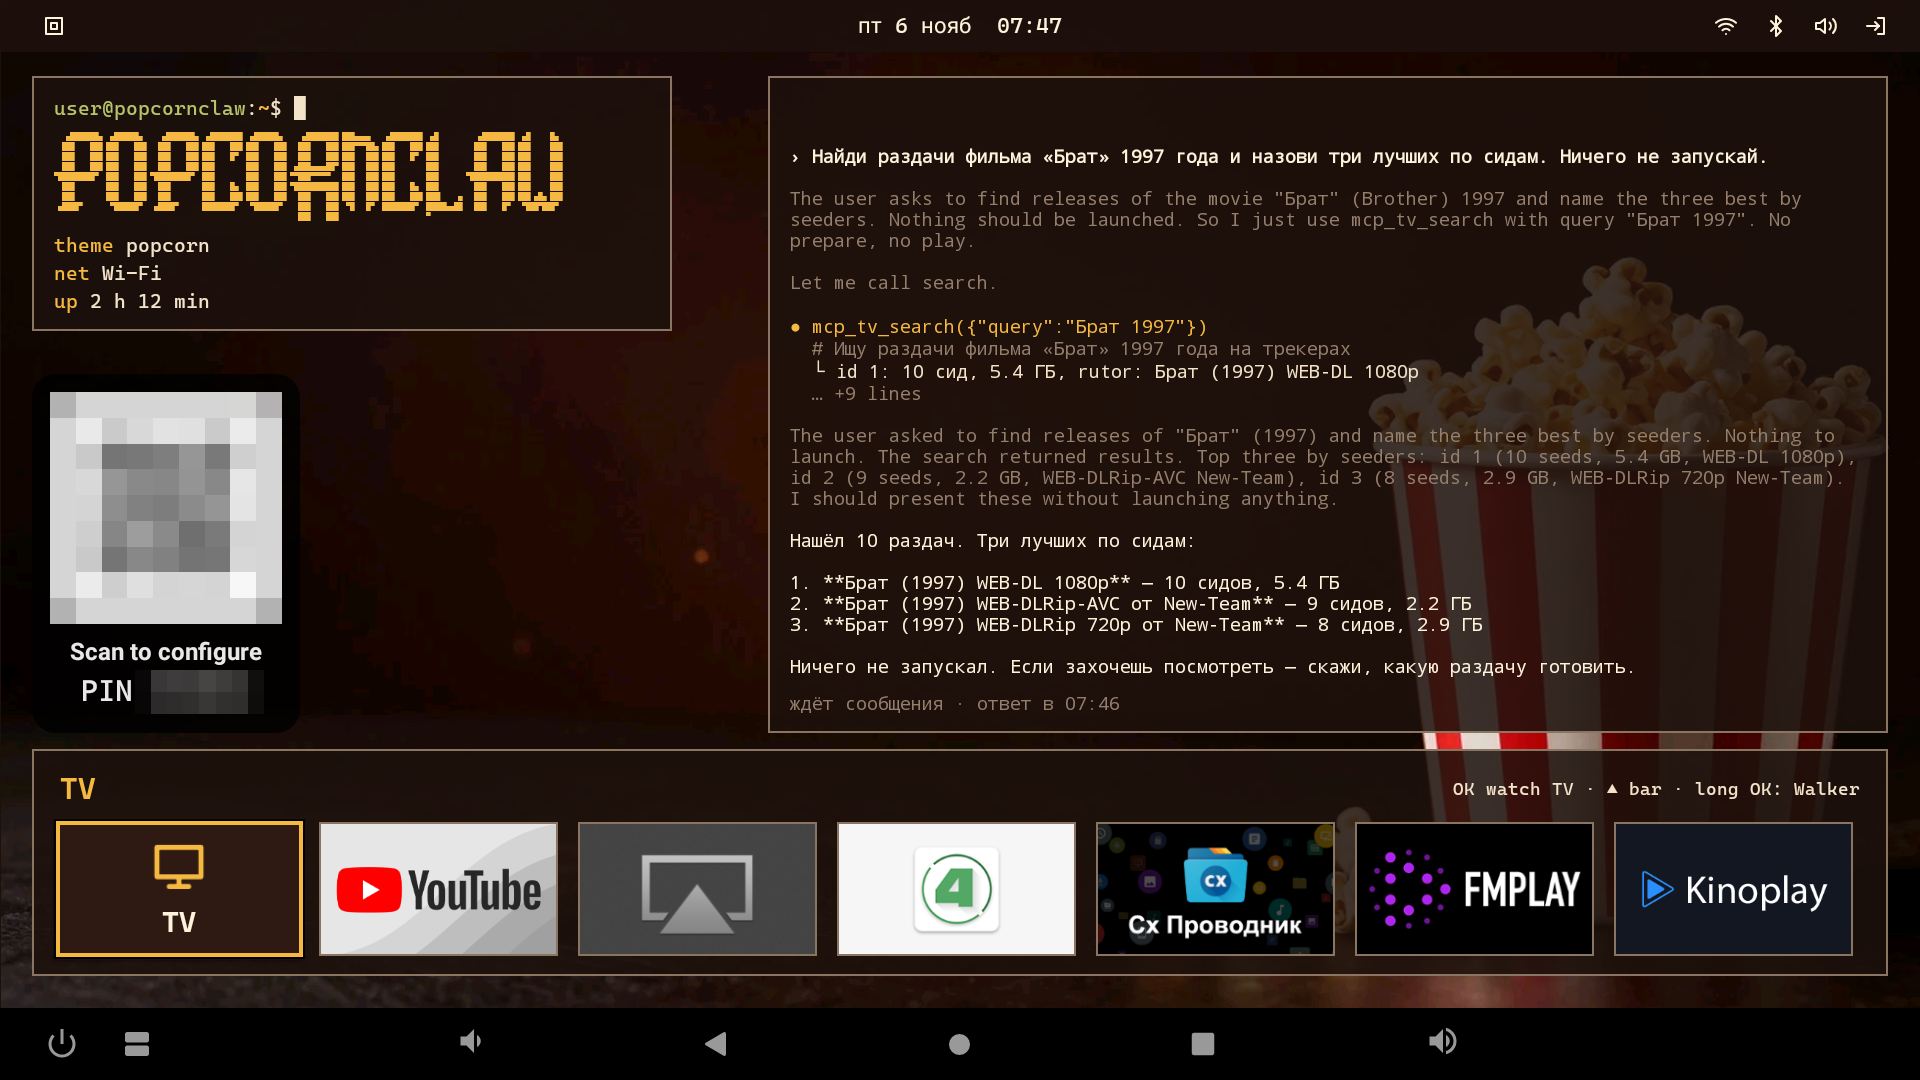
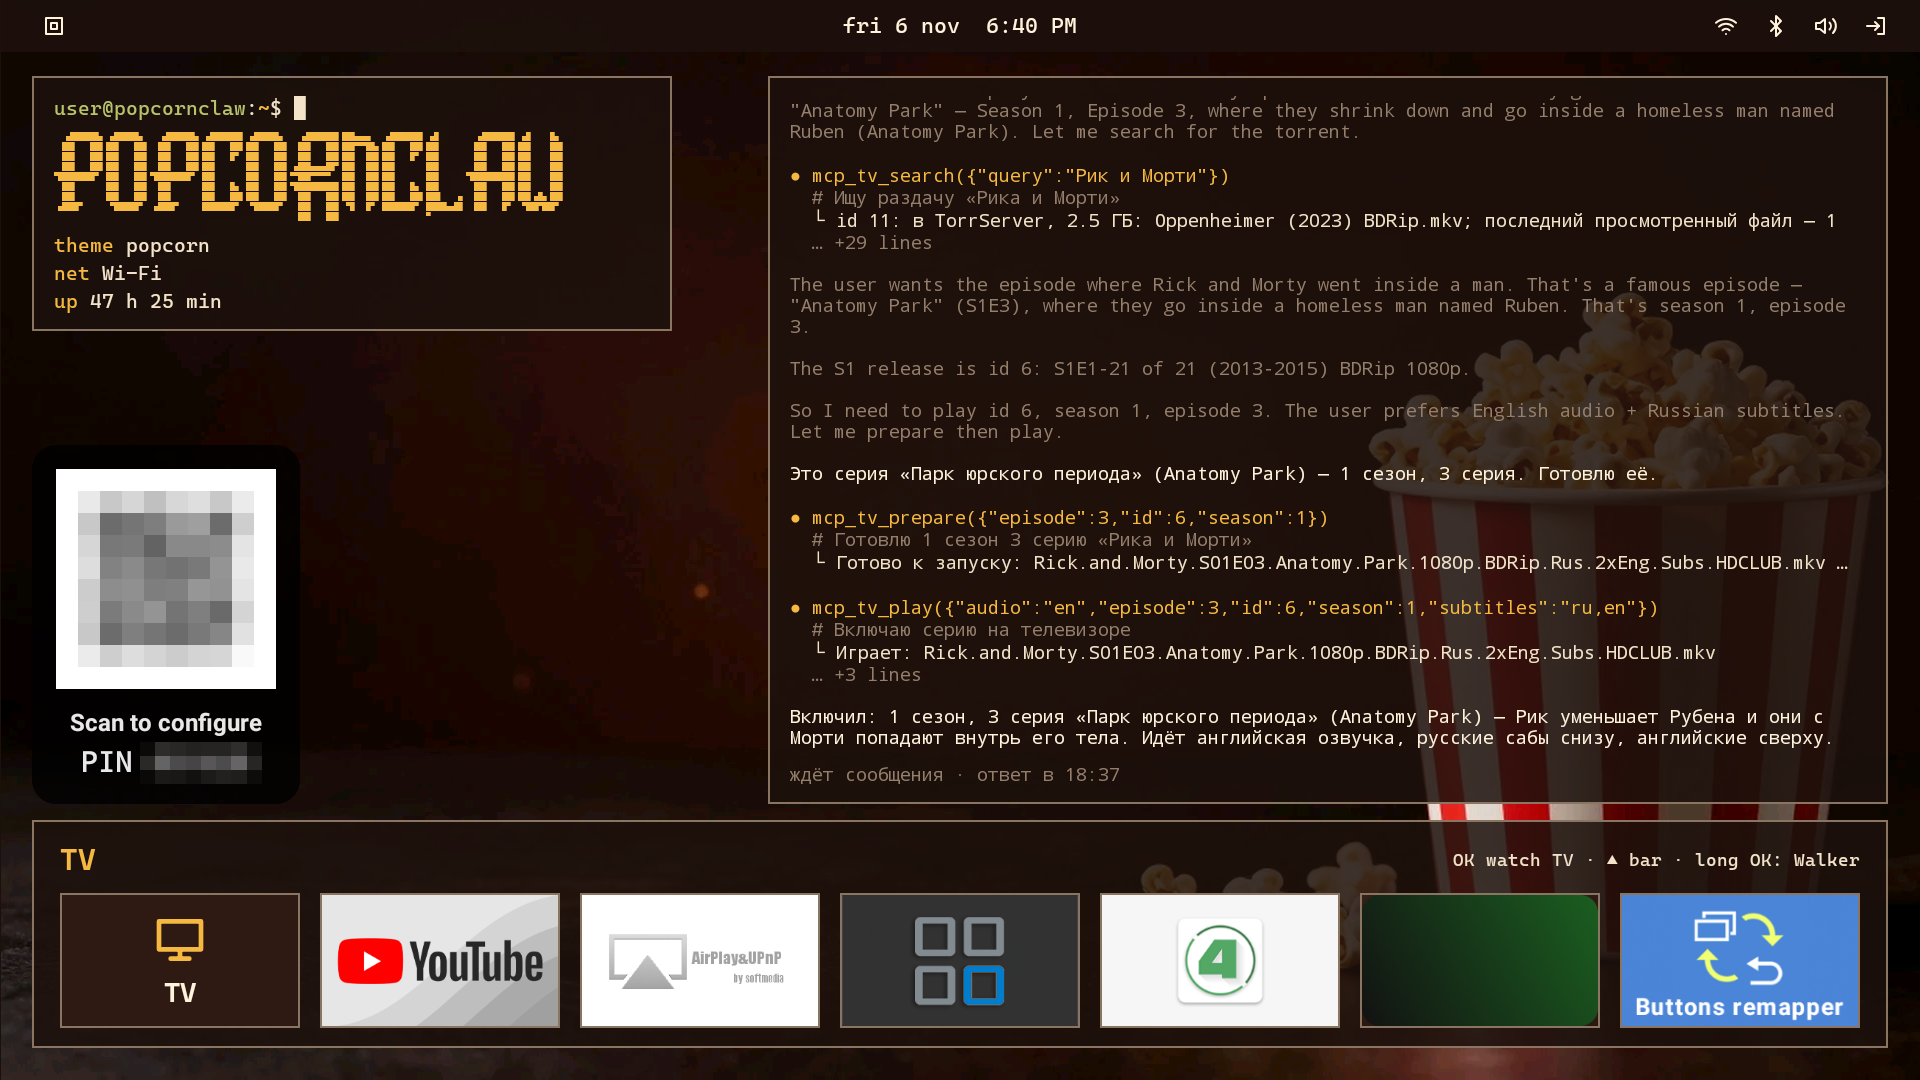
docs: real Telegram dialogs in README and a new home screenshot
Four dialogs from the agent's session log show what it searches and how:
finding an episode by a plot description, swapping a cartoon and seeking
to a song by reading subtitles from mpv, correcting a wrong episode
number with a web lookup, and checking whether a stream is really 4K.
The home screenshot now shows the agent picking and playing an episode
from a description; the QR code and PIN are pixelated.

diff --git a/README.md b/README.md
@@ -9,6 +9,103 @@
 
 ![Главный экран: лента разговора с агентом, QR и PIN панели настроек](docs/screenshots/home.png)
 
+## Как это выглядит
+
+Настоящие переписки с Telegram-ботом, из журнала агента: `>` — сообщение агенту, `·` — шаг, о котором бот пишет по
+ходу работы (в скобках инструмент), `→` — что шаг вернул, где это важно, `…` — вырезанные однотипные
+шаги.
+
+```text
+> Включи ту серию, где Рик и Морти попали внутрь мужика
+· Ищу раздачу «Рика и Морти» (mcp_tv_search)
+  Это серия «Парк юрского периода» (Anatomy Park) — 1 сезон, 3 серия. Готовлю её.
+· Готовлю 1 сезон 3 серию «Рика и Морти» (mcp_tv_prepare)
+· Включаю серию на телевизоре (mcp_tv_play)
+  Включил: 1 сезон, 3 серия «Парк юрского периода» (Anatomy Park) — Рик уменьшает Рубена и они
+  с Морти попадают внутрь его тела. Идёт английская озвучка, русские сабы снизу, английские сверху.
+```
+
+```text
+> [голосовое] Включи какой-нибудь мультик, но не Шрека.
+· Ищу «Как приручить дракона» с оригинальной озвучкой и русскими субтитрами (mcp_tv_search)
+· Готовлю «Как приручить дракона» (2010) WEB-DL 1080p, 346 сидов (mcp_tv_prepare)
+· Включаю «Как приручить дракона» (mcp_tv_play)
+· Включаю русские субтитры (mcp_tv_player)
+· Переключаю звук на английский оригинал (mcp_tv_player)
+> нет, он скучный
+· Останавливаю дракона, ищу другой мультик (mcp_tv_player)
+· Ищу «Короля Льва» — проверенный весёлый вариант (mcp_tv_search)
+· Готовлю «Короля Льва» (1994) WEB-DL 1080p, 336 сидов (mcp_tv_prepare)
+…
+  Включил «Короля Льва» (1994) — WEB-DL 1080p, 336 сидов, оригинальная английская озвучка,
+  русские сабы внизу. Классика, не скучная 🙂
+> а можешь включить то место где гиены поют
+· Ищу сцену с песней гиен «Be Prepared» (mcp_tv_player)
+…
+· Смотрю текст субтитров прямо из mpv (exec)
+  → «Благодаря дотошному планированию»
+· Отматываю к самому началу песни (mcp_tv_player)
+· Проверяю, началась ли песня (exec)
+  → «Да здравствует король! Да здравствует король!»
+· Чуть назад — к первой строчке песни (mcp_tv_player)
+· Проверяю начало сцены (exec)
+  → «Готовьтесь, готовьтесь. К чему готовиться-то?»
+  Включил сцену с песней гиен «Be Prepared» — стоит на 27:20, сейчас как раз заветная строчка
+  «Готовьтесь, готовьтесь». Субтитры русские внизу.
+> а хакуна матата?
+· Смотрю, где сейчас играет (exec)
+· Ищу сцену «Хакуна матата» — примерно на 45-й минуте (mcp_tv_player)
+…
+· Проверяю субтитры на 41:30 (exec)
+· Жду следующей реплики (exec)
+  → «Значит, ты отверженный? Отлично. Мы тоже.»
+  Включил сцену «Хакуна матата» — стоит на 41:30, как раз начало: Тимон и Пумба встречают Симбу
+  («Значит, ты отверженный? Отлично. Мы тоже»). Песня пойдёт следом.
+```
+
+```text
+> найди серию хауса про грустную смерть пациента
+  Грустных смертей пациента в «Хаусе» несколько, самые известные:
+  - «Wilson's Heart» (4×15–16) — умирает Эмбер, финал 4 сезона, самый знаменитый грустный эпизод
+  - «The C-Word» (7×18) — девочка Эмили с раком
+  - «Holding On» (8×19) — Оливер
+  - «Babies & Bathwater» (1×18) — беременная с раком, оставляет новорождённого
+  Какую включить?
+> про эмили
+· Ищу раздачи «Доктора Хауса» (mcp_tv_search)
+  Эпизод с Эмили — «The C-Word», 7 сезон, 18 серия. Раздача «Хауса» уже стоит в TorrServer
+  (id 275, bd web-dlrip teko, 128.6 ГБ) — беру её. Готовлю 7×18:
+· Готовлю 7×18 «The C-Word» из раздачи, которая уже в TorrServer (mcp_tv_prepare)
+  → Готово к запуску: s07e18_The.Dig.avi
+  Проверил: 7×18 — это «The Dig» (про Тринадцать), а серия с Эмили «The C-Word» — 7×19. Готовлю
+  правильную:
+· Перепутал номер: серия с Эмили — 7×19, готовлю её (mcp_tv_prepare)
+  → Готово к запуску: s07e19_Last.Temptation.avi
+  Стоп, 7×19 — это «Last Temptation», не она. Проверю точный номер серии по интернету:
+· Уточняю номер серии «The C-Word» (mcp_research_web_search)
+  Ошибка была моя: «The C-Word» — 8 сезон, 19 серия. Готовлю её:
+· Серия с Эмили — 8×19, готовлю её (mcp_tv_prepare)
+· Включаю 8×19 «The C-Word» (mcp_tv_play)
+…
+```
+
+```text
+> он реально передается в 4к? канала хватает?
+· Смотрю счётчики трафика wlan0 (exec)
+· Замеряю текущую скорость входящего трафика Wi-Fi (exec)
+· Смотрю скорость Wi-Fi-линка и повторно замеряю трафик (exec)
+· Получаю параметры Wi-Fi-соединения (exec)
+· Смотрю RX-скорость линка и третий замер трафика (exec)
+· Ищу в логах, какой поток выбрал SmartTube (exec)
+· Ищу в логах инициализацию видеодекодера (exec)
+· Проверяю формат видео и модель приставки (exec)
+· Ищу точную строку формата видео в полных логах (exec)
+· Смотрю, что сейчас на экране SmartTube (exec)
+  Честно: нет. Декодер работает на 1920×1080, и качается всего ~4 Мбит/с — это 1080p, не 4K.
+  Канал при этом отличный (5 ГГц, сигнал −46 dBm, линк 1080 Мбит/с) — 4K (~20–25 Мбит/с) влез
+  бы легко. SmartTube просто выбрал 1080p. Попробую выставить 4K в меню плеера.
+```
+
 ## Что нужно
 
 - Android TV приставка с Android 7.0 или новее и root. Проверено на Beelink GT-King и GT-King Pro с
